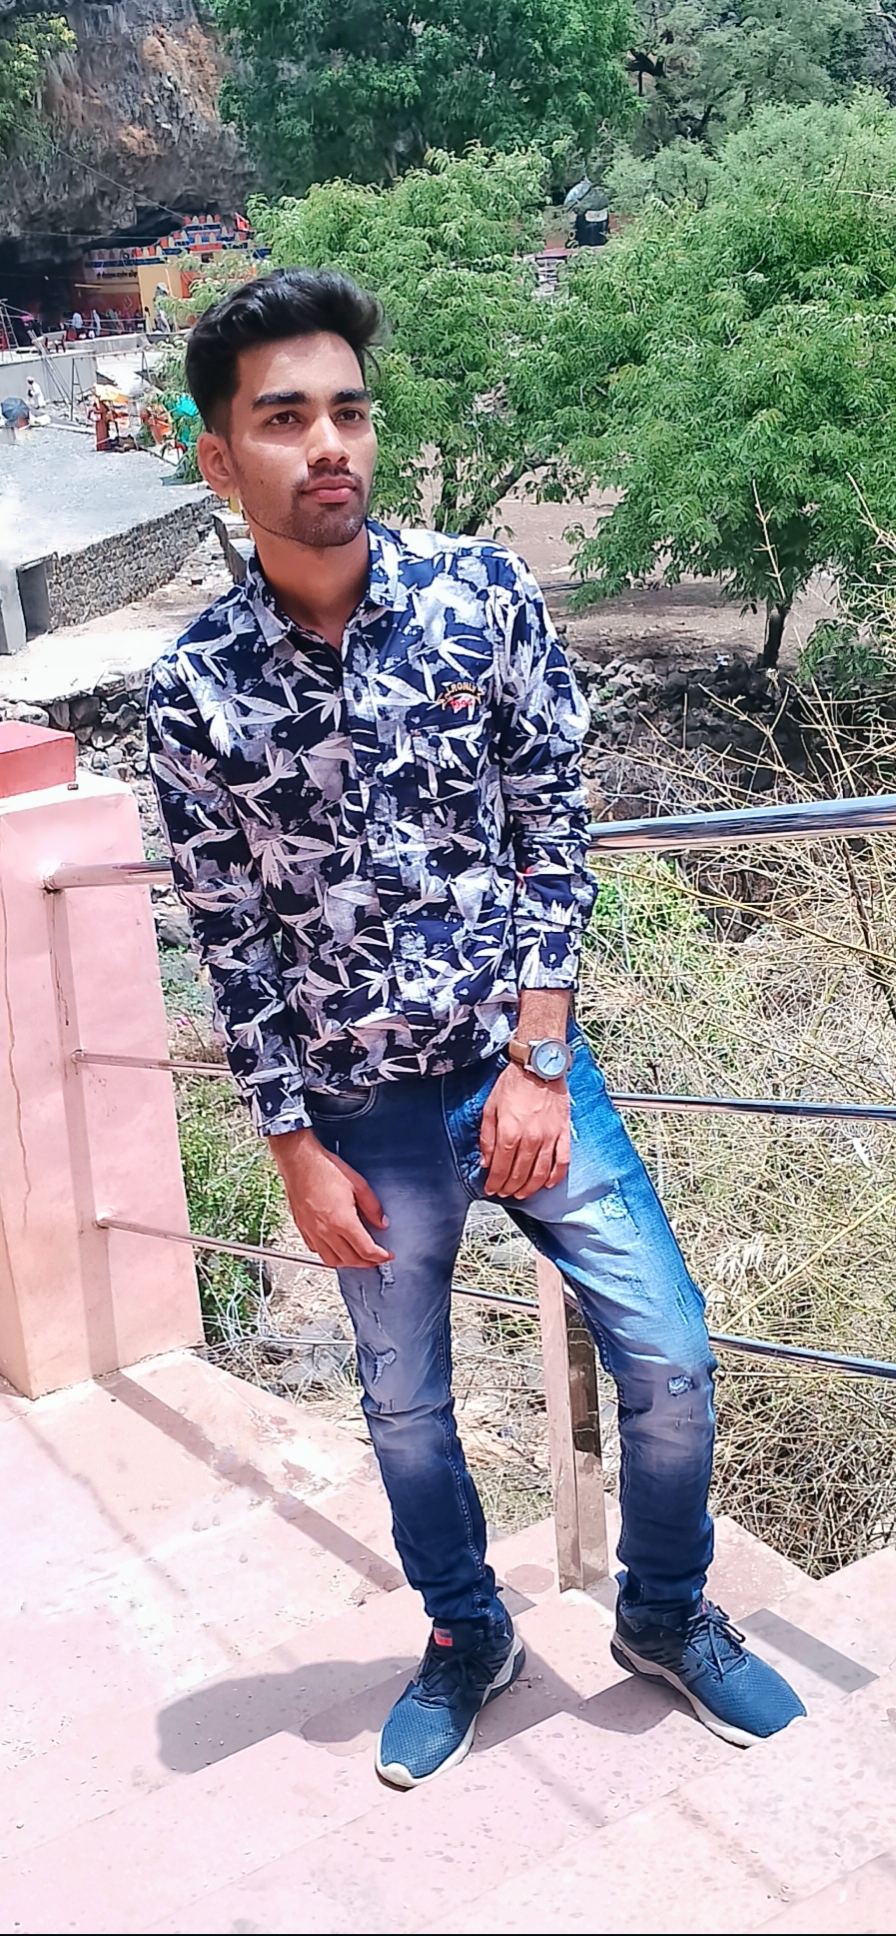
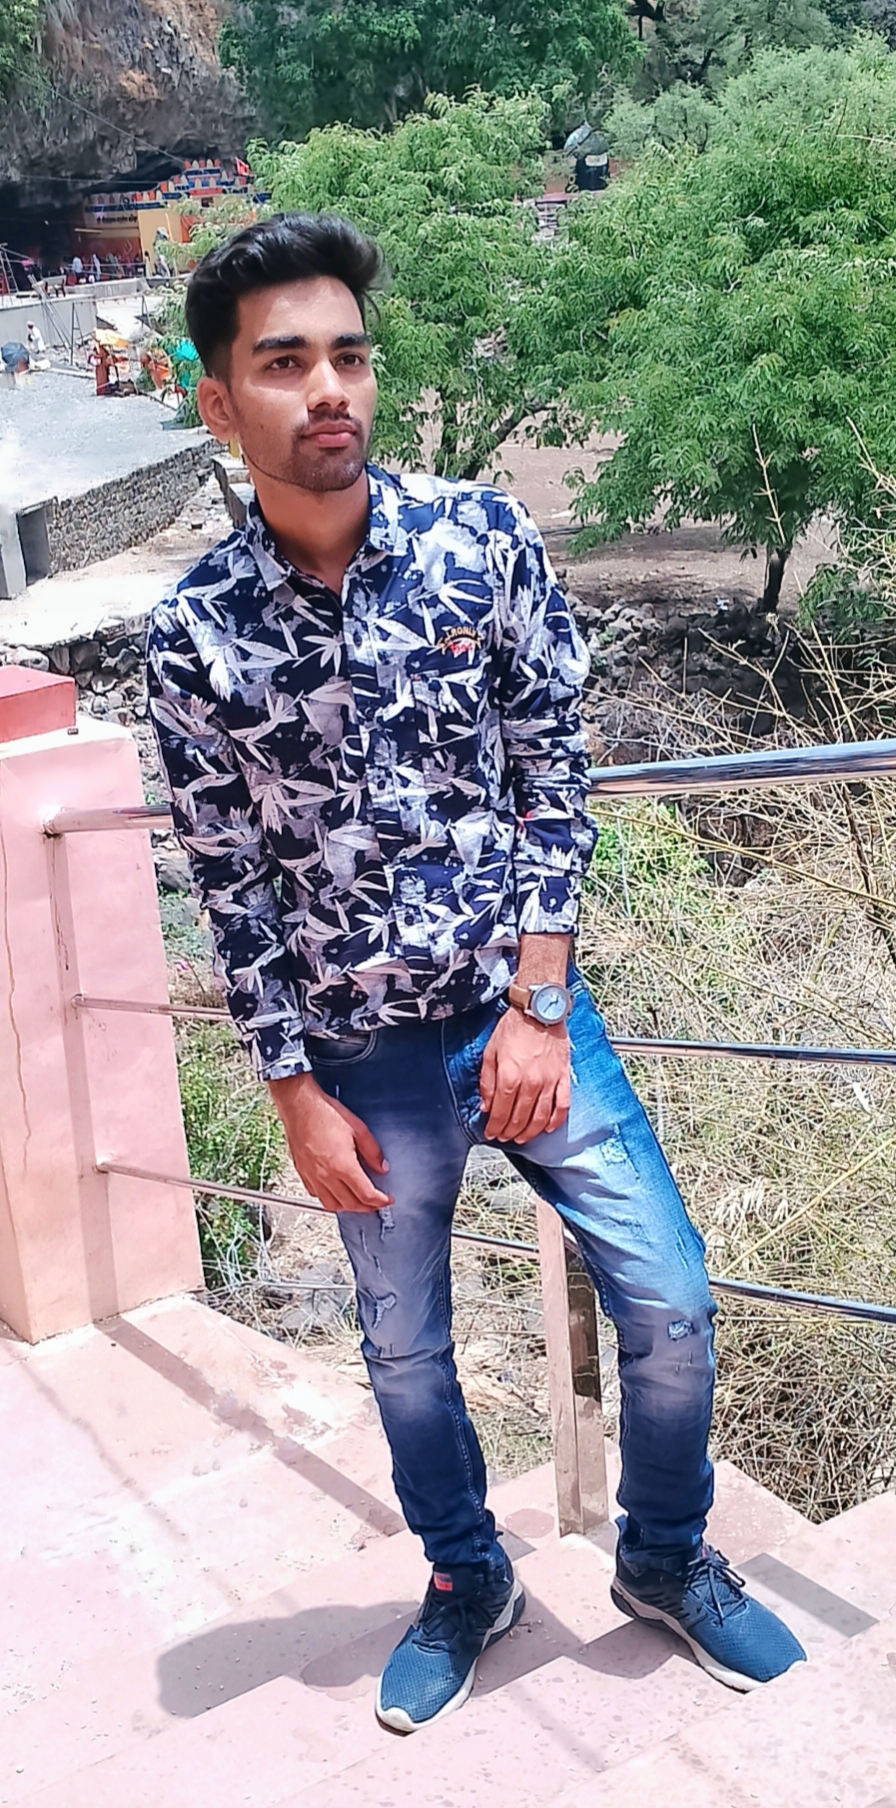
gallery photos updated

diff --git a/gallery/index.html b/gallery/index.html
@@ -124,36 +124,36 @@
         <a data-w-id="49624ee1-e392-6c2f-2417-6e942a283513" href="/assets/img/gallery/rohitrathod0.png" class="portfolio-lightbox col-lg-4 col-md-4 portfolio-item filter-Personal image-wrapper instagram-section hide-mobile w-inline-block" style="transform: translate3d(0px, 0px, 0px) scale3d(0.97, 0.97, 1) rotateX(0deg) rotateY(0deg) rotateZ(0deg) skew(0deg, 0deg); transform-style: preserve-3d; opacity: 0;">
           <img data-sizes="auto" data-src="/assets/img/gallery/rohitrathod0.png" alt="" class="lazyload image instagram-image"> <span class="caption">Randomn Selfie</span>
       </a>
+      <a data-w-id="49624ee1-e392-6c2f-2417-6e942a283507"  href="/assets/img/gallery/gallery-01.jpg"  class="gallery-lightbox col-lg-4 col-md-4 portfolio-item filter-Personal image-wrapper instagram-section w-inline-block" style="transform: translate3d(0px, 0px, 0px) scale3d(0.97, 0.97, 1) rotateX(0deg) rotateY(0deg) rotateZ(0deg) skew(0deg, 0deg); transform-style: preserve-3d; opacity: 0;">
+        <img data-sizes="auto" data-src="/assets/img/gallery/gallery-01.jpg" alt="" class="lazyload image instagram-image"> <span class="caption">LearnToEarn challenge</span>
+     </a>
           
-          <a data-w-id="49624ee1-e392-6c2f-2417-6e942a283509" href="../assets/img/gallery/Snapchat-328124628.jpg"  class="gallery-lightbox col-lg-4 col-md-4  portfolio-item filter-Personal image-wrapper instagram-section w-inline-block" style="transform: translate3d(0px, 0px, 0px) scale3d(0.97, 0.97, 1) rotateX(0deg) rotateY(0deg) rotateZ(0deg) skew(0deg, 0deg); transform-style: preserve-3d; opacity: 0;">
-              <img data-sizes="auto" data-src="/assets/img/gallery/Snapchat-328124628.jpg" alt="" class="lazyload image instagram-image"><span class="caption">Engineering & Assignments 🔗</span>
-          </a>
 
-        <a data-w-id="49624ee1-e392-6c2f-2417-6e942a28350b" href="../assets/img/gallery/IMG_20220413_113724.jpg"  class="portfolio-lightbox col-lg-4 col-md-4 portfolio-item filter-Personal image-wrapper instagram-section w-inline-block" style="transform: translate3d(0px, 0px, 0px) scale3d(0.97, 0.97, 1) rotateX(0deg) rotateY(0deg) rotateZ(0deg) skew(0deg, 0deg); transform-style: preserve-3d; opacity: 0;">
-          <img data-sizes="auto" data-src="/assets/img/gallery/IMG_20220413_113724.jpg" alt="" class="lazyload image instagram-image"><span class="caption">Not a cool but ok</span>
+        <a data-w-id="49624ee1-e392-6c2f-2417-6e942a28350b" href ="../assets/img/gallery/rohitrathod0.jpg"  class="portfolio-lightbox col-lg-4 col-md-4 portfolio-item filter-Personal image-wrapper instagram-section w-inline-block" style="transform: translate3d(0px, 0px, 0px) scale3d(0.97, 0.97, 1) rotateX(0deg) rotateY(0deg) rotateZ(0deg) skew(0deg, 0deg); transform-style: preserve-3d; opacity: 0;">
+          <img data-sizes="auto" data-src="/assets/img/gallery/rohitrathod0.jpg" alt="" class="lazyload image instagram-image"><span class="caption">Not a cool but ok</span>
       </a>
       <a data-w-id="49624ee1-e392-6c2f-2417-6e942a28350f" href="/assets/img/gallery/rohitrathodd.jpg" class="portfolio-lightbox col-lg-4 col-md-4 portfolio-item filter-Personal image-wrapper instagram-section hide-mobile w-inline-block" style="transform: translate3d(0px, 0px, 0px) scale3d(0.97, 0.97, 1) rotateX(0deg) rotateY(0deg) rotateZ(0deg) skew(0deg, 0deg); transform-style: preserve-3d; opacity: 0;">
         <img data-sizes="auto" data-src="/assets/img/gallery/hire.jpg" alt="" class="lazyload image instagram-image"><span class="caption"></span>
     </a>
-      <a data-w-id="49624ee1-e392-6c2f-2417-6e942a283513" href="/assets/img/gallery/hire.jpg" class="portfolio-lightbox col-lg-4 col-md-4 portfolio-item filter-Personal image-wrapper instagram-section hide-mobile w-inline-block" style="transform: translate3d(0px, 0px, 0px) scale3d(0.97, 0.97, 1) rotateX(0deg) rotateY(0deg) rotateZ(0deg) skew(0deg, 0deg); transform-style: preserve-3d; opacity: 0;">
-        <img data-sizes="auto" data-src="/assets/img/gallery/hire.jpg" alt="" class="lazyload image instagram-image"> <span class="caption">Not a Stylish pose </span>
+      <a data-w-id="49624ee1-e392-6c2f-2417-6e942a283513" href="/assets/img/gallery/4.jpg" class="portfolio-lightbox col-lg-4 col-md-4 portfolio-item filter-Personal image-wrapper instagram-section hide-mobile w-inline-block" style="transform: translate3d(0px, 0px, 0px) scale3d(0.97, 0.97, 1) rotateX(0deg) rotateY(0deg) rotateZ(0deg) skew(0deg, 0deg); transform-style: preserve-3d; opacity: 0;">
+        <img data-sizes="auto" data-src="/assets/img/gallery/4.jpg" alt="" class="lazyload image instagram-image"> <span class="caption">Not a Stylish pose </span>
       </a>
-      <a data-w-id="49624ee1-e392-6c2f-2417-6e942a28350d" href="../assets/img/gallery/hire.jpg" class="portfolio-lightbox col-lg-4 col-md-4 portfolio-item filter-Personal image-wrapper instagram-section w-inline-block" style="transform: translate3d(0px, 0px, 0px) scale3d(0.97, 0.97, 1) rotateX(0deg) rotateY(0deg) rotateZ(0deg) skew(0deg, 0deg); transform-style: preserve-3d; opacity: 0;">
-        <img data-sizes="auto"data-src="/assets/img/gallery/hire.jpg" alt="" class="lazyload image instagram-image"> <span class="caption">New to college</span>
+      <a data-w-id="49624ee1-e392-6c2f-2417-6e942a28350d" href="../assets/img/gallery/rohitrathod00.jpg" class="portfolio-lightbox col-lg-4 col-md-4 portfolio-item filter-Personal image-wrapper instagram-section w-inline-block" style="transform: translate3d(0px, 0px, 0px) scale3d(0.97, 0.97, 1) rotateX(0deg) rotateY(0deg) rotateZ(0deg) skew(0deg, 0deg); transform-style: preserve-3d; opacity: 0;">
+        <img data-sizes="auto"data-src="/assets/img/gallery/rohitrathod00.jpg" alt="" class="lazyload image instagram-image"> <span class="caption">New to college</span>
     </a>
     <a data-w-id="49624ee1-e392-6c2f-2417-6e942a283513" href="/assets/img/gallery/hire.jpg" class="portfolio-lightbox col-lg-4 col-md-4 portfolio-item filter-Personal image-wrapper instagram-section hide-mobile w-inline-block" style="transform: translate3d(0px, 0px, 0px) scale3d(0.97, 0.97, 1) rotateX(0deg) rotateY(0deg) rotateZ(0deg) skew(0deg, 0deg); transform-style: preserve-3d; opacity: 0;">
       <img data-sizes="auto" data-src="/assets/img/gallery/hire.jpg" alt="" class="lazyload image instagram-image"> <span class="caption">Randomn Selfie</span>
   </a>
-          <a data-w-id="49624ee1-e392-6c2f-2417-6e942a28350d" href="../assets/img/gallery/Snapchat-660590569(1).jpg" class="portfolio-lightbox col-lg-4 col-md-4 portfolio-item filter-Personal image-wrapper instagram-section w-inline-block" style="transform: translate3d(0px, 0px, 0px) scale3d(0.97, 0.97, 1) rotateX(0deg) rotateY(0deg) rotateZ(0deg) skew(0deg, 0deg); transform-style: preserve-3d; opacity: 0;">
-              <img data-sizes="auto"data-src="/assets/img/gallery/Snapchat-660590569(1).jpg" alt="" class="lazyload image instagram-image"> <span class="caption">New to college</span>
+          <a data-w-id="49624ee1-e392-6c2f-2417-6e942a28350d" href="../assets/img/gallery/IMG_20220525_173643.jpg" class="portfolio-lightbox col-lg-4 col-md-4 portfolio-item filter-Personal image-wrapper instagram-section w-inline-block" style="transform: translate3d(0px, 0px, 0px) scale3d(0.97, 0.97, 1) rotateX(0deg) rotateY(0deg) rotateZ(0deg) skew(0deg, 0deg); transform-style: preserve-3d; opacity: 0;">
+              <img data-sizes="auto"data-src="/assets/img/gallery/IMG_20220525_173643.jpg" alt="" class="lazyload image instagram-image"> <span class="caption">New to college</span>
           </a>
          
           <a data-w-id="49624ee1-e392-6c2f-2417-6e942a283509" href="../assets/img/gallery/RohitRathod.jpg"  class="portfolio-lightbox col-lg-4 col-md-4  portfolio-item filter-Personal image-wrapper instagram-section w-inline-block" style="transform: translate3d(0px, 0px, 0px) scale3d(0.97, 0.97, 1) rotateX(0deg) rotateY(0deg) rotateZ(0deg) skew(0deg, 0deg); transform-style: preserve-3d; opacity: 0;">
             <img data-sizes="auto" data-src="/assets/img/gallery/RohitRathod.jpg" alt="" class="lazyload image instagram-image"><span class="caption">Engineering & Assignments 🔗</span>
         </a>
-        <a data-w-id="49624ee1-e392-6c2f-2417-6e942a283507"  href="/assets/img/gallery/gallery-01.jpg"  class="gallery-lightbox col-lg-4 col-md-4 portfolio-item filter-Personal image-wrapper instagram-section w-inline-block" style="transform: translate3d(0px, 0px, 0px) scale3d(0.97, 0.97, 1) rotateX(0deg) rotateY(0deg) rotateZ(0deg) skew(0deg, 0deg); transform-style: preserve-3d; opacity: 0;">
-          <img data-sizes="auto" data-src="/assets/img/gallery/gallery-01.jpg" alt="" class="lazyload image instagram-image"> <span class="caption">LearnToEarn challenge</span>
-       </a>
+        <a data-w-id="49624ee1-e392-6c2f-2417-6e942a283509" href="../assets/img/gallery/Snapchat-328124628.jpg"  class="gallery-lightbox col-lg-4 col-md-4  portfolio-item filter-Personal image-wrapper instagram-section w-inline-block" style="transform: translate3d(0px, 0px, 0px) scale3d(0.97, 0.97, 1) rotateX(0deg) rotateY(0deg) rotateZ(0deg) skew(0deg, 0deg); transform-style: preserve-3d; opacity: 0;">
+          <img data-sizes="auto" data-src="/assets/img/gallery/Snapchat-328124628.jpg" alt="" class="lazyload image instagram-image"><span class="caption">Engineering & Assignments 🔗</span>
+      </a>
           <a data-w-id="49624ee1-e392-6c2f-2417-6e942a283513" href="/assets/img/gallery/rohit.jpg"  class="portfolio-lightbox col-lg-4 col-md-4 portfolio-item filter-Personal image-wrapper instagram-section hide-mobile w-inline-block" style="transform: translate3d(0px, 0px, 0px) scale3d(0.97, 0.97, 1) rotateX(0deg) rotateY(0deg) rotateZ(0deg) skew(0deg, 0deg); transform-style: preserve-3d; opacity: 0;">
             <img data-src="/assets/img/gallery/rohit.jpg" alt="" class="lazyload image instagram-image"> <span class="caption">Not a Stylish pose </span>
           </a>

diff --git a/about/index.html b/about/index.html
@@ -164,7 +164,7 @@
                 </div>
                 
                <div id="w-node-_28d8b925-f381-1676-938b-22b5ac2a0b83-ecb625a8" class="split-content my-story-image-wrapper">
-                   <img loading="lazy" src="../assets/img/about/RohitRathod0.webp" alt="Rohit Rathod in Parul University during Projection"  sizes="(max-width: 479px) 93vw, (max-width: 767px) 94vw, (max-width: 1439px) 46vw, 572.5px" 
+                   <img loading="lazy" src="../assets/img/about/rohit.webp" alt="Rohit Rathod "  sizes="(max-width: 479px) 93vw, (max-width: 767px) 94vw, (max-width: 1439px) 46vw, 572.5px" 
                    style="transform: translate3d(0px, 0px, 0px) scale3d(0.97, 0.97, 1) rotateX(0deg) rotateY(0deg) rotateZ(0deg) skew(0deg, 0deg); opacity: 0; transform-style: preserve-3d;" 
                    data-w-id="49624ee1-e392-6c2f-2417-6e942a283511" class="image my-story">
                    <img loading="lazy" src="../assets/img/about/rohitrathodd.webp" alt="Rohit Rathod in his first year at Parul University" sizes="(max-width: 479px) 93vw, (max-width: 767px) 94vw, (max-width: 1439px) 46vw, 572.5px" 

diff --git a/contact/index.html b/contact/index.html
@@ -85,7 +85,7 @@
     <div class=" section">
       <div data-w-id="81f3dd75-6e8f-94c8-98cf-0dc9a2572d9b" style="transform: translate3d(0px, 0px, 0px) scale3d(1, 1, 1) rotateX(0deg) rotateY(0deg) rotateZ(0deg) skew(0deg, 0deg); opacity: 1; transform-style: preserve-3d;" class="w-container container-medium-838px top-content contact-title-wrapper">
           <h1>Contact me</h1>
-          <p>I am glade that you came to my site. I am available on almost every social media. You can message me, I will reply as soon as possible.</p>
+          <p>Glade to see you here 🙌🏻❤. I am available on almost every social media, you can find me by my username "rohitrathodd" everywhere. You can message me, I will reply as soon as possible.</p>
           <p>Feel free to get in contact with me , if you have a great opportunity for me or just want say hii !</p>
       </div>
       

diff --git a/assets/css/new-style.css b/assets/css/new-style.css
@@ -1876,7 +1876,7 @@ figcaption {
   -ms-flex-item-align: stretch;
   -ms-grid-row-align: stretch;
   align-self: stretch;
-  border-radius: 50px;
+  border-radius: 100px;
   -o-object-fit: cover;
   object-fit: cover;
 }
@@ -1884,7 +1884,7 @@ figcaption {
 .image.my-story {
   display: block;
   margin-bottom: 35px;
-  border-radius: 24px;
+  border-radius: 160px;
 }
 
 .image.my-story.last {
@@ -4974,16 +4974,16 @@ figcaption {
   }
 
   .image.hero-about-wrapper {
-    border-radius: 12px;
+    border-radius: 50px;
   }
 
   .image.my-story {
     margin-bottom: 24px;
-    border-radius: 12px;
+    border-radius: 120px;
   }
 
   .image.my-story.last {
-    border-radius: 12px;
+    border-radius: 120px;
   }
 
   .image.my-story-underline {

diff --git a/blog/index.html b/blog/index.html
@@ -106,7 +106,7 @@
                     <div role="list" class="categories-wrapper w-dyn-items">
                         <div role="listitem" class="category-item w-dyn-item">
                             <div class="category-item-wrapper">
-                                <a href="https://rohirathodd.hashnode.dev" target=_blank rel="noopener " class="button-secondary category w-button">Hashnode</a>
+                                <a href="https://rohitrathodd.hashnode.dev" target=_blank rel="noopener " class="button-secondary category w-button">Hashnode</a>
                             </div>
                         </div>
                         <div role="listitem" class="category-item w-dyn-item">
